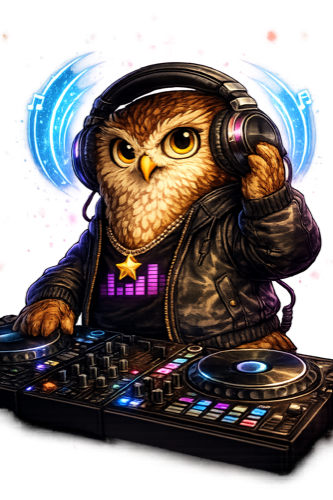
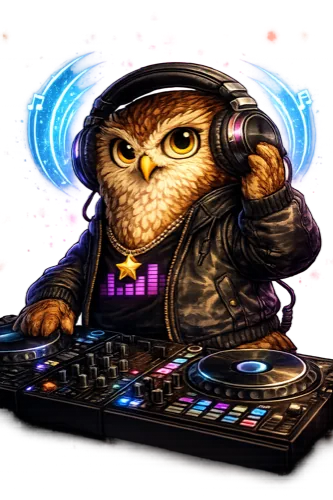
Publish SPA from ivanbueno/pdf-validation-api@5c2bba2f5342d44d8e8c2924ea4997db686c3898

diff --git a/index.html b/index.html
@@ -11,10 +11,9 @@
       property="og:description"
       content="Validate your PDF for PDF/UA-1, WCAG 2.2, and Section 508 compliance online. Free PDF accessibility checker powered by veraPDF. API available."
     />
-    <meta property="og:image" content="./images/favicon.webp" />
+    <meta property="og:image" content="./images/favicon-256.webp" />
     <title>Free PDF Accessibility Checker | PDF/UA & WCAG Validator Online | PDF Audit</title>
-    <link rel="icon" type="image/webp" sizes="256x256" href="./images/favicon.webp" />
-    <link rel="preload" as="image" type="image/webp" href="./images/owl-full-body.webp" fetchpriority="high" />
+    <link rel="icon" type="image/webp" sizes="256x256" href="./images/favicon-256.webp" />
     <link rel="preconnect" href="https://fonts.googleapis.com" />
     <link rel="preconnect" href="https://fonts.gstatic.com" crossorigin />
     <link href="https://fonts.googleapis.com/css2?family=Space+Grotesk:wght@400;500;600;700&family=IBM+Plex+Mono:wght@400;500&display=swap" rel="stylesheet" />
@@ -28,7 +27,20 @@
       <header class="hero">
         <p class="eyebrow">PDF/UA & WCAG Validator Online</p>
         <a class="hero-title" href="/">
-          <img class="hero-logo" src="./images/favicon.webp" alt="" aria-hidden="true" />
+          <img
+            class="hero-logo"
+            src="./images/favicon-64.webp"
+            srcset="
+              ./images/favicon-64.webp 1x,
+              ./images/favicon-128.webp 2x,
+              ./images/favicon-192.webp 3x
+            "
+            width="64"
+            height="64"
+            alt=""
+            aria-hidden="true"
+            decoding="async"
+          />
           <h1>Free PDF Accessibility Checker API</h1>
         </a>
         <p class="lead">
@@ -39,13 +51,19 @@
       <section class="panel form-panel">
         <img
           class="form-panel-mascot"
-          src="./images/owl-full-body.webp"
+          src="./images/owl-full-body-420.webp"
+          srcset="
+            ./images/owl-full-body-320.webp 320w,
+            ./images/owl-full-body-420.webp 420w,
+            ./images/owl-full-body-532.webp 532w
+          "
+          sizes="(min-width: 980px) 500px, (min-width: 700px) 430px, 306px"
           alt=""
           aria-hidden="true"
-          width="532"
-          height="800"
-          loading="eager"
-          fetchpriority="high"
+          width="420"
+          height="632"
+          loading="lazy"
+          fetchpriority="low"
           decoding="async"
         />
         <h2 class="form-panel-summary">
